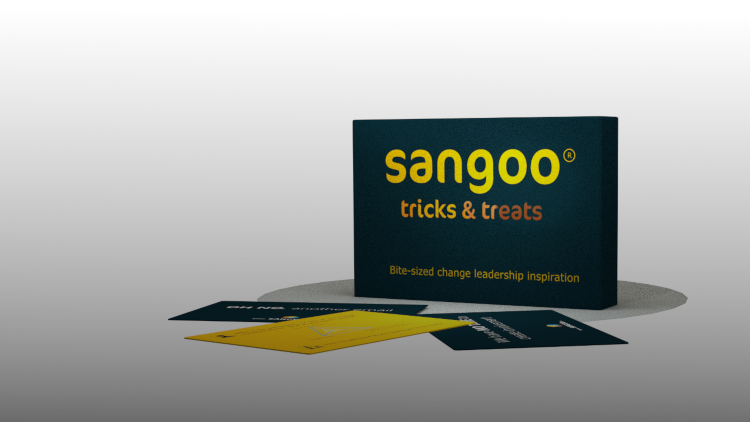
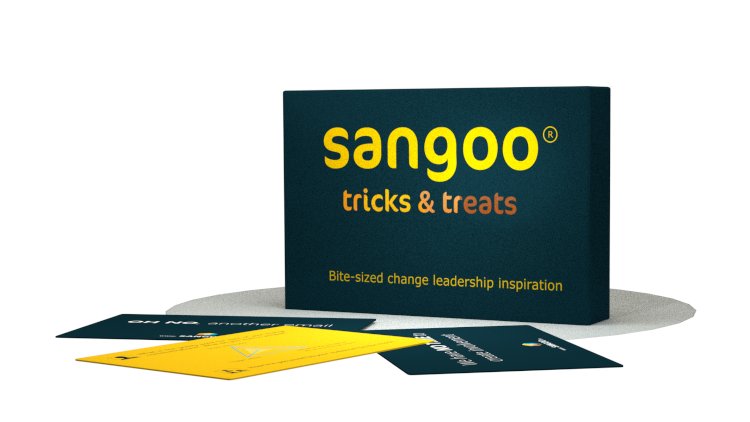
suggested reading aangevuld knoppen yt aangepast

diff --git a/src/reading001.html b/src/reading001.html
@@ -5,7 +5,7 @@
   <!-- Required meta tags -->
   <meta charset="utf-8" />
   <meta name="viewport" content="width=device-width, initial-scale=1, shrink-to-fit=no" />
-  <title>VPK group testifies</title>
+  <title>Suggested reading</title>
 
   <link rel="stylesheet" type="text/css" href="https://fonts.googleapis.com/css?family=Nunito" />
   <link rel="stylesheet" type="text/css"
@@ -70,16 +70,9 @@
 
         <div class="row">
           <div class="col-12 text-justify mb-md-5">
-            <h1 class="mb-4">VPK packaging group</h1>
-            <p class="">De samenwerking tussen VPK Packaging Group (VPK) en Alveare startte in 2014 toen VPK Paper
-              Oudegem
-              voor de uitdaging stond om de technische dienst verder te professionaliseren. De zoektocht naar een
-              externe partner die de technische directeur kon begeleiden in het realiseren van de beoogde verandering
-              resulteerde in een eerste samenwerking tussen VPK en ALVEARE. Naast de ondersteuning van specifieke
-              verandertrajecten, wordt ook SANGOO® (een innovatieve leeraanpak over verandering) ingezet in het high
-              potential programma van VPK. Wim Naessens (COO PAPER) blikt terug op dit stevig partnership en vertelt
-              hoe ALVEARE bijdraagt aan de verdere expansie van de pan-Europese speler in de papier- en
-              kartonindustrie.</p>
+            <h1 class="mb-4">The burning platform and the hot potato</h1>
+            <p class="">Within the change management community, the concept of “burning platform” is well known. It refers to a set of circumstances that thrive and support the urgent need to change things. If we do not change, we will all go down together …</p>
+          
           </div>
         </div>
       </section>
@@ -90,146 +83,106 @@
       <div class="container container">
 
         <div class="row flex-row-reverse flex-wrap-reverse flex-md-row flex-md-wrap">
-          <div class="col-md-8 text-left pl-4 pr-4 pb-0">
-            <h5 class="mb-md-3 mt-md-5">Wat zijn de grote uitdagingen voor VPK</h5>
-            <p>
-              De afgelopen jaren heeft VPK een grote groei
-              doorgemaakt, zowel organisch als via acquisities. We
-              evolueerden tot een speler op Europese schaal. Een
-              dergelijke groei maakt het noodzakelijk dat we onze
-              interne competenties en structuur verder uitbouwen
-              en verstevigen, zodat we klaar zijn voor de toekomst.
-              Ook de internationale expansie met haar
-              cultuurverschillen biedt specifieke uitdagingen.
+          <div class="mt-md-5 col-md-8 text-left pl-4 pr-4 pb-0">
+            <p>The logic goes as follows: If you make clear to the audience of your change (those impacted by the change), what the imminent problems are that need to be addressed, this will ensure their commitment in the change program. Also, explaining what will happen if things do not change, will boost their engagement; people will be willing to change, since they understand changing is a matter of ‘survival’.
             </p>
-            <h5 class="mb-md-3 mt-md-5">Waarom besliste je om met ALVEARE te werken?</h5>
-            <p>
-              Els (Els Heylen – medeoprichter Alveare) en ik kenden
-              elkaar van vroeger en op die manier is het eerste
-              contact ontstaan. Wat me echt over de streep heeft
-              getrokken is jullie change leadership framework, de
-              leidraad die jullie aanbieden om veranderingen te
-              realiseren. Dit framework helpt om op een
-              gestructureerde manier de ‘high level’ doelen en
-              doelstellingen te vertalen naar concrete initiatieven.
-              Vaak begeleiden externe consultants het opmaken van
-              deze ‘high level’ plannen, het consolideren van de
-              cijfers, het opmaken van de nieuwe bedrijfsorganisatie
-              en rapporteringslijnen, maar meestal stopt het daar.
-              De vervolgstappen, het concreet realiseren van de
-              verandering ligt vaak niet binnen hun expertise. Jullie
-              aanpak zet wel die volgende stappen en helpt om te
-              concretiseren en te realiseren. Het feit dat jullie met
-              een framework werken zorgt er ook voor dat de interne
-              verantwoordelijke voor de verandering ook een kader
-              heeft om op terug te vallen.
-
+            <p>Even if in reality the platform is not ablaze, understanding why change is needed, is a crucial first step on the path to readiness for change. However, the use of 'the burning platform' deserves some nuance.
             </p>
           </div>
-
-          <div class="col-md-4 text-center p-0 p-md-4">
-            <img class="mt-md-5 mb-5 mb-md-0 responsive-img-sm img-fluid" src="./images/Testimonial_vpk_Wim.png" alt="">
+        
+          <div class="col-md-4 text-center pl-4">
+            <img class=" mt-md-5 mb-5 mb-md-0 responsive-img-sm img-fluid" src="./images/reading001_hot_potatoe.jpg" alt="">
           </div>
         </div>
 
         <div class="col-md-12 mt-3">
-          <h5 class="">Hoe evalueer je de samenwerking tot nu?</h5>
+            <p>
+              Imagine following scenario: the management of the company you work for uses every opportunity to make it clear that the company will go through difficult times if no action is taken.
+              What will be your first reaction?</p>
+              A.	Waw, this sounds serious. What can I do to help?<br>
+              B.	No surprise to me, just look at how this company is managed. Curious to see what they will come up with to tackle this.<br>
+              C.	Did not see that one coming; will be a real challenge for the management. Perhaps it is better to abandon the sinking ship …<br>
+              D.	Here we go again ...<br>
+            <br>
+              <p>
+              Chances of your first reaction being option A are very slim. Perhaps the other options feel far more familiar. 
+              I order to motivate people to take action, the ‘burning platform’ message clearly needs some annotations.
+            </p>
+        </div>
+        <div class="col-md-12 mt-4">
+          <h4 class="">Modesty rules</h4>
           <p class="pt-3 text-justify">
-            Vaak begint de moeilijke weg van verandering wanneer
-            je je plannen concreet vorm begint te geven. Aan het
-            begin van een traject lijkt het alsof er een zee van tijd
-            is en de kans bestaat dat plannen niet realistisch
-            opgemaakt worden. Daarnaast moet je nadenken over:
-            hoe breng ik een duidelijk verhaal, hoe krijg ik mensen
-            mee in mijn verhaal, hoe kan ik rekening houden met
-            verschillende meningen en input, hoe bouw ik een
-            realistische aanpak, ... Om verandering succesvol te leiden, moet je van vele markten thuis zijn.
-            Communicatie is
-            er daar één van. Het externe klankbord en de ondersteuning die jullie aanbieden helpt
-            hierbij. Met jullie aanpak brengen jullie de goede volgorde in het traject. Jullie ondersteunen
-            bij communicatie, faciliteren werkgroepen (betrokkenheid creëren), geven concreet advies
-            rond de ‘menselijk/psychologische’ aspecten van verandering, … Als jullie er niet waren
-            geweest was het plan dat er lag nooit zo goed uitgerold geweest. En ik weet uit ervaring,
-            als je de laatste 10% van je implementatie niet doet heb je kans dat je 100% van het
-            resultaat mist.
-
+            Most likely, many of the employees already know for quite some time that change is needed. Just proclaiming the ‘burning platform’ will not add anything … In the end you are not telling them anything new. ‘Finally, the management understands things need to change… What will they do about it?’
+            As a change leader it is important to have a clear understanding of what is happening within your organisation. Understanding what happens within your organisation will ensure you can bring a well balanced message across, so that people start feeling concerned and willing to engage.
+            Bringing a modest message (most likely you are not the first nor the only one who has come to the insight that things need to change) forms a good base to reduce the risk that people will just wait and see.
           </p>
         </div>
+          
       </div>
-      <!-- klant -->
+    </div>
 
-      <div class="bg-gray-100 mt-5 pb-5">
+    <div class="bg-gray-100">
         <div class="container container">
-          <div class="row flex-row flex-wrap-reverse flex-md-row flex-md-wrap">
+          <div class="col-md-12 mt-5">
+            <h4 class="">Be aware of the ‘Ivory Tower’</h4>
+            <p class="pt-3 text-justify">
+              If the gap between the management and the floor is too wide, the management will be personally held responsible for failure; a phenomenon known in psychology as ‘Fundamental Attribution Error’.
+              We attribute failure and success in a different way for people that are close to us (part of the group) versus the ones that are more distant. Positive behaviour of people that are not part of our ‘group’ is easily attributed to external factors (luck, ideal market conditions, …), negative behaviour is attributed to the person itself. 
+              So, if the employees feel no connection with the management, they will tend to blame the management for the situation as depicted in the ‘burning platform’ and will most likely have little trust in the management to turn the situation around.
+              To engage people in any change, it is crucial for the management to be easily accessible and available. As a change leader, you need to be aware of the distance between you and the change audience and actively manage your accessibility. 
 
-            <div class="col-md-8 text-justify mt-md-5 mb-4">
-              <h3 class="">VPK packaging group</h3>
-              <p class="pt-3">VPK Packaging Group NV is een internationale
-                groep, actief in de verwerking van oud papier tot
-                golfkartonverpakkingen, kartonnen hulzen en
-                speciale verpakkingen voor gekoeld transport. De
-                afgelopen jaren kenmerken zich door een stevige
-                omzetgroei en internationale expansie door
-                overnames. De hoofdzetel bevindt zich in Aalst en
-                de groep heeft 6.400 werknemers (van wie 1.100
-                in België) in 65 productiesites. In 2018 bedroeg
-                de omzet 1,35 miljard euro en de ebitda 170
-                miljoen euro. VPK is een familiebedrijf en is
-                eigendom van de familie Macharis.</p>
-
-
-            </div>
-            <div class="col-md-4 text-center pl-md-5 mt-5 mb-5 mb-md-1">
-              <img class="img-fluid" src="./images/Testimonial_vpk_logo.png" alt="">
-            </div>
+            </p>
           </div>
+      </div>
+    </div>
+
+
+    <div class="bg-white">
+      <div class="container container">
+       <div class="col-md-12 mt-5">
+          <h4 class="">Emphasize what goes well</h4>
+
+            <p>
+                When was the last time the platform was ablaze? How many times has it been on fire?
+                Perhaps (at least a part of) the organisation did get the ‘burning platform’ message already multiple times in the past. Perhaps they haven’t witnessed a fundamental change, following all these alleged fires. As a result, the ‘burning platform’ has lost all credibility.
+                Even if things did not turn out as expected in the past, be grateful of what did go well. There is always something you can learn from prior experiences, good or bad, successes or failures. Again, be modest, speak about both successes and failures.
+                Most likely, your organization is already operational for some years and surely, there are things that work well. Make sure to highlight these and ensure that they will be maintained. Radical change is rare…  
+                Never forget that the new ‘talk’ is as good as the old one, until proven otherwise.
+                
         </div>
+
+
+        <div class="row flex-row flex-wrap flex-md-row flex-md-wrap">
+            <div class="col-md-4 text-center pl-4">
+              <img class=" mt-md-5 mb-5 mb-md-0 responsive-img-sm img-fluid" src="./images/sangooe_questions.svg" alt="">
+            </div>
+            
+            <div class="mt-md-3 col-md-8 text-left pl-4 pr-4 pb-0">
+                <h4 class="">What is in it for me?</h4>
+
+              <p>The first question people will raise is what will change for me, as a person. Will I lose my job? Will I have a new boss? Will I have to move to a new desk? Will I have to shift jobs? Can I contribute? Do I have a say in the matter? 
+                  Be aware that you as a manager can not realize any change on your own, you need help! Make clear to your colleagues you cannot do this without them; ask for help, ask for feedback. Tell them, you need them to make this a success.
+                  Having a say in the change increases the engagement as well as the willingness to change. Define upfront how and when you want to involve your colleagues (push and pull).
+                  </p>
+              <p>Even if in reality the platform is not ablaze, understanding why change is needed, is a crucial first step on the path to readiness for change. However, the use of 'the burning platform' deserves some nuance.
+              </p>
+            </div>
+         </div>
       </div>
-      <!-- vraag en antwoord sectie 2 -->
+    </div>
+  
+      <div class="container container">
+          <div class="col-md-12 mt-5">
+             <p>
+                Although the ‘burning platform‘ may well be a fact-driven and substantiated view of the reality, it remains a fact that it will not motivate the majority of your audience to take any action, on the contrary.
 
-      <div class="bg-white">
-        <div class="container container">
+                Ensure your message appeals to what occupies your audience and do not be blind of their past change experiences. Bringing a modest and honest message is much more important that going for the ‘shock’ effect.
+                Be realistic in showing the way ahead in an understandable and appealing way. Talk about the vision and the strategy of the organisation when bringing the change message. People need to trust you know what you are doing (which does not mean that you know everything), before they engage in the change. 
+                If you want people to get out of their comfort zone and engage in a change, make sure there is a clear and understandable link between ‘why we need to change’ and the vision and strategy of the company. In this way, your chances of success will increase significantly.
+                
+                  
+      </div>
 
-          <div class="row flex-row-reverse flex-wrap-reverse flex-md-row flex-md-wrap">
-
-            <div class="col-md-12 mt-3">
-              <h5 class="">Naast het begeleiden van specifieke verandertrajecten, zetten jullie ook SANGOO® in, als
-                onderdeel
-                van jullie high potential programma.</h5>
-              <p class="pt-3 text-justify">
-                Ja inderdaad. We hebben ervoor gekozen om SANGOO® in te zetten in ons high potential programma, omdat
-                het een
-                zeer rijke aanpak is waarmee we onze medewerkers willen versterken om de veranderigen waar onze
-                organisatie mee
-                te maken krijgt, met succes te realiseren. De aanpak reikt veel (verander)leiderschapsconcepten aan en
-                dit op een
-                interactieve manier. Deze leerervaring wordt erg gesmaakt door de deelnemers.
-              </p>
-
-            </div>
-          </div>
-          <div class="row flex-row flex-wrap flex-md-row flex-md-wrap">
-            <div class="col-md-4 text-center p-0 p-md-4">
-              <img class="mb-5 mb-5 responsive-img-sm img-fluid" src="./images/Testimonial_vpk_machine.png" alt="">
-            </div>
-            <div class="col-md-8 text-left pl-3 pr-4 pb-0 pt-3">
-              <p>Ook de aanpak om te werken met een terugkomdag
-                waarin de deelnemers de aangereikte concepten
-                vertalen naar hun eigen realiteit is een meerwaarde,
-                omdat op deze manier de theoretische concepten
-                echt beginnen te leven voor de deelnemers. SANGOO
-                biedt naar mijn mening een goede ondersteuning om
-                de uitdagingen waar we als groep voor staan beter het
-                hoofd te kunnen bieden.
-              </p>
-              <p>
-                Naar de toekomst toe, denk ik dat we het
-                vervolgtraject nog verder moeten uitbouwen, zodat de
-                verschillende hiërarchische lijnen elkaar verder
-                kunnen versterken. We merken dat we hier nog extra
-                ondersteuning moeten voorzien.
-              </p>
-            </div>
           </div>
          
          

diff --git a/src/inspiration.html b/src/inspiration.html
@@ -128,7 +128,7 @@
             </div>
 
             <div class="col-md-6 text-center p-0 p-md-4">
-              <img class="mt-md-5 mb-5 mb-md-0 responsive-img-sm img-fluid" src="./images/box3.png" alt="">
+              <img class="mt-md-5 mb-5 mb-md-0 responsive-img-sm img-fluid" src="./images/t&tboxproduct.png" alt="">
             </div>
           </div>
           <div class="text-left mb-5 mb-sum-2">
@@ -201,13 +201,15 @@
           </style>
           <div class="row">
             <div class="s-story-container">
-              <a href="https://www.youtube.com/watch?v=jrCPHA0MeT0" target="_blank"
-                class="s-story s-story--lg s-story-grid-item-1"
-                style="background-image: url('./images/testimonial_VPK.jpg'); background-size:cover">
-
-                <div class="s-story__title">VPK testimonial</div>
-                <div class="s-story__subtitle">Wim Naessens COO Paper</div>
+              
+              <a class="s-story s-story--sm s-story-grid-item-1 video-btn" data-toggle="modal"
+              style="background-image: url('./images/grid_sangooexplained.jpg'); background-size:cover"
+              data-src="https://www.youtube.com/embed/Ok-D8LlFKbI" data-target="#myModal">
+              <div class="s-story__title">CHANGE LEARNING EXPERIENCES</div>
+              <div class="s-story__subtitle">Explained in 90 seconds</div>
               </a>
+              
+            
 
               <a href="https://www.youtube.com/watch?v=-n7JNOLzLQg&t=4s" target="_blank" href="" target="_blank"
                 class="s-story s-story--sm s-story-grid-item-2"

diff --git a/src/partials/footer.html b/src/partials/footer.html
@@ -21,10 +21,10 @@
   								<input class="form-control" id="email" name="from" type="text">
   							</div>
   							<div class="form-group">
-  								<label for="textarea" class="d-block text-col2">Questions / remarks</label>
+  								<label for="textarea" class="d-block text-col2	">Questions / remarks</label>
   								<textarea class="form-control" id="textarea" name="remarks" rows="3"></textarea>
   							</div>
-  							<button type="submit" class="btn btn-primary btn-block smb-2">Send</button>
+  							<button type="submit" class="btn btn-warning btn-block smb-2">Send</button>
   						</form>
   					</div>
   				</div>
@@ -56,4 +56,14 @@
 		</div>
 	</div>
 	</div>
+	  <!-- jQuery first, then Popper.js, then Bootstrap JS -->
+	  <script src="https://code.jquery.com/jquery-3.3.1.slim.min.js"
+	  integrity="sha384-q8i/X+965DzO0rT7abK41JStQIAqVgRVzpbzo5smXKp4YfRvH+8abtTE1Pi6jizo" crossorigin="anonymous">
+	</script>
+	<script src="https://cdnjs.cloudflare.com/ajax/libs/popper.js/1.14.7/umd/popper.min.js"
+	  integrity="sha384-UO2eT0CpHqdSJQ6hJty5KVphtPhzWj9WO1clHTMGa3JDZwrnQq4sF86dIHNDz0W1" crossorigin="anonymous">
+	</script>
+	<script src="https://stackpath.bootstrapcdn.com/bootstrap/4.3.1/js/bootstrap.min.js"
+	  integrity="sha384-JjSmVgyd0p3pXB1rRibZUAYoIIy6OrQ6VrjIEaFf/nJGzIxFDsf4x0xIM+B07jRM" crossorigin="anonymous">
+	</script>
 </div>

diff --git a/src/experience.html b/src/experience.html
@@ -108,18 +108,20 @@
               groups of 4-6 participants) supports the insight that teamwork is a key success factor to realise change.
             </div>
           </div>
-          <div class="text-left mb-5 mb-sm-2 ">
-            <button type="button" class="s-arrow-link btn btn-light">
-              <a href="https://www.youtube.com/watch?v=-n7JNOLzLQg&t=4s">
-                <span class="s-arrow-text pl-2">discover the testimonials</span>
+          
+          
+          <div class="text-left mb-5 mb-sum-2">
+            <a class="video-btn" data-toggle="modal" style="" data-src="https://www.youtube.com/embed/-n7JNOLzLQg" data-target="#myModal">
+                <button type="button" class="s-arrow-link btn btn-light">
+                <span class="s-arrow-text text-left pl-2">Discover the testimonials</span>
                 <svg class="s-arrow-icon" xmlns="http://www.w3.org/2000/svg" width="24" height="24" viewBox="0 0 24 24">
                   <path d="M0 0h24v24H0z" fill="none" />
                   <path d="M12 4l-1.41 1.41L16.17 11H4v2h12.17l-5.58 5.59L12 20l8-8z" /></svg>
-              </a>
+            
             </button>
+            </a>
           </div>
-
-
+        
 
         </section>
         <section class="">

diff --git a/src/styles/_variables.scss b/src/styles/_variables.scss
@@ -1,7 +1,7 @@
 $white: #FFFFFF;
 
 $col1: #005F8F;
-$col2: #FFDC02;
+$col2: #ffc107;
 $col3: #1EC0B8;
 $col4: #FFAE1D;
 $col5: #02b0df;
